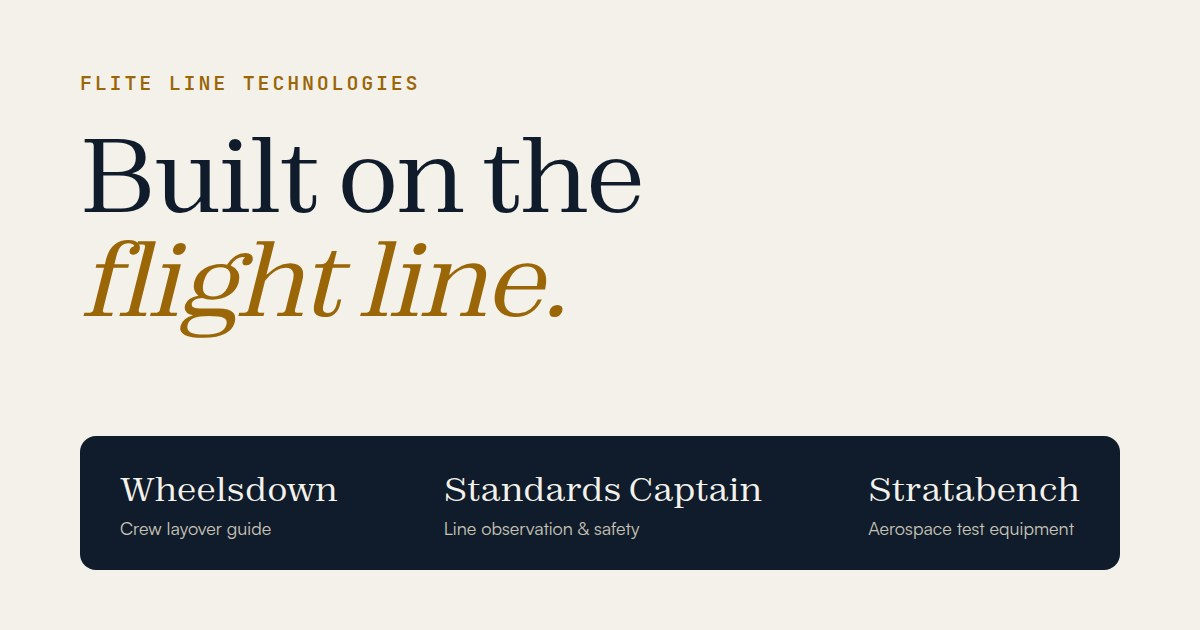
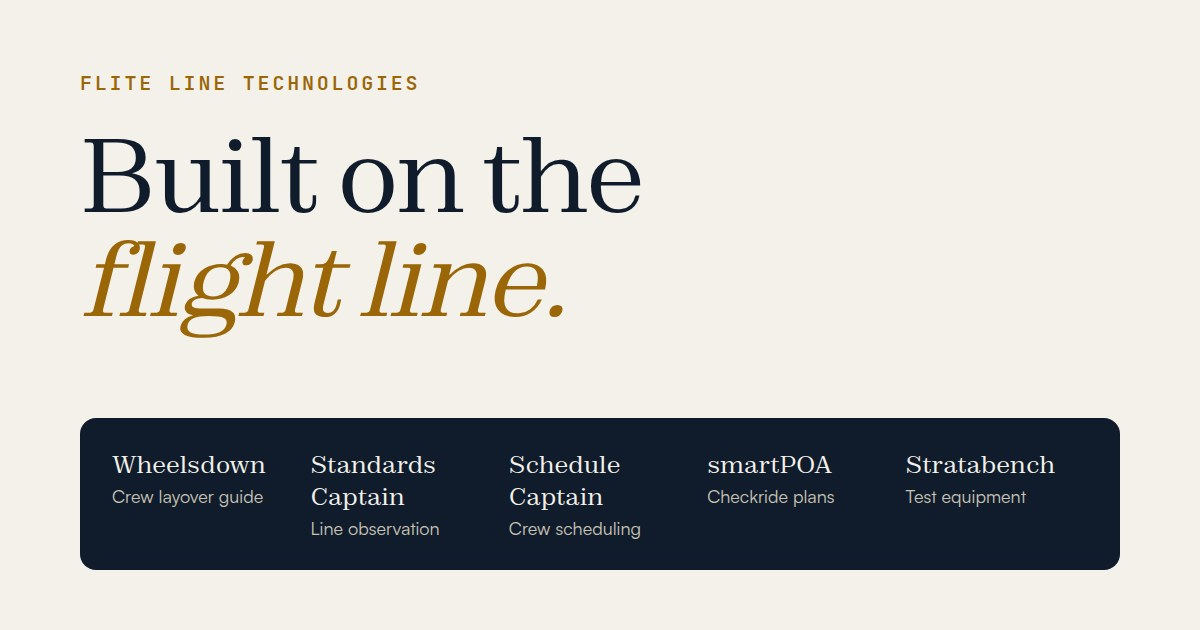
Add Schedule Captain and smartPOA, refresh product descriptions, remove GitHub link

Changed region(s): [[0.0925, 0.7238, 0.7092, 0.8746], [0.0617, 0.6635, 0.9558, 0.6937], [0.7092, 0.7238, 0.8942, 0.8746]]

diff --git a/index.html b/index.html
@@ -4,24 +4,24 @@
 <meta charset="utf-8">
 <meta name="viewport" content="width=device-width, initial-scale=1">
 <title>Flite Line Technologies | Aviation Software &amp; Test Equipment</title>
-<meta name="description" content="Flite Line Technologies builds aviation products: Wheelsdown for flight crews, Standards Captain for flight departments and Stratabench custom aerospace test equipment.">
+<meta name="description" content="Flite Line Technologies builds aviation products: Wheelsdown for flight crews, Standards Captain and Schedule Captain for flight departments, smartPOA for examiners and Stratabench aerospace test equipment.">
 <link rel="canonical" href="https://flitelinetech.com/">
 <meta name="robots" content="index, follow">
 <meta property="og:type" content="website">
 <meta property="og:site_name" content="Flite Line Technologies">
 <meta property="og:url" content="https://flitelinetech.com/">
 <meta property="og:title" content="Flite Line Technologies | Built on the flight line">
-<meta property="og:description" content="Flite Line Technologies builds aviation products: Wheelsdown for flight crews, Standards Captain for flight departments and Stratabench custom aerospace test equipment.">
+<meta property="og:description" content="Flite Line Technologies builds aviation products: Wheelsdown for flight crews, Standards Captain and Schedule Captain for flight departments, smartPOA for examiners and Stratabench aerospace test equipment.">
 <meta property="og:image" content="https://flitelinetech.com/img/og-image.jpg">
 <meta property="og:image:width" content="1200">
 <meta property="og:image:height" content="630">
-<meta property="og:image:alt" content="Flite Line Technologies: Wheelsdown, Standards Captain and Stratabench">
+<meta property="og:image:alt" content="Flite Line Technologies: Wheelsdown, Standards Captain, Schedule Captain, smartPOA and Stratabench">
 <meta name="twitter:card" content="summary_large_image">
 <meta name="twitter:title" content="Flite Line Technologies | Built on the flight line">
-<meta name="twitter:description" content="Flite Line Technologies builds aviation products: Wheelsdown for flight crews, Standards Captain for flight departments and Stratabench custom aerospace test equipment.">
+<meta name="twitter:description" content="Flite Line Technologies builds aviation products: Wheelsdown for flight crews, Standards Captain and Schedule Captain for flight departments, smartPOA for examiners and Stratabench aerospace test equipment.">
 <meta name="twitter:image" content="https://flitelinetech.com/img/og-image.jpg">
 <meta name="theme-color" content="#101c2c">
-<script type="application/ld+json">{"@context":"https://schema.org","@graph":[{"@type":"Organization","@id":"https://flitelinetech.com/#org","name":"Flite Line Technologies","url":"https://flitelinetech.com/","logo":"https://flitelinetech.com/img/og-image.jpg","parentOrganization":{"@type":"Organization","name":"Flite Line Aviation Services, LLC"},"brand":[{"@type":"Brand","name":"Wheelsdown","url":"https://getwheelsdown.com/"},{"@type":"Brand","name":"Standards Captain","url":"https://standardscaptain.com/"},{"@type":"Brand","name":"Stratabench","url":"https://stratabench.com/"}],"sameAs":["https://getwheelsdown.com/","https://standardscaptain.com/","https://stratabench.com/"]},{"@type":"WebSite","@id":"https://flitelinetech.com/#site","url":"https://flitelinetech.com/","name":"Flite Line Technologies","publisher":{"@id":"https://flitelinetech.com/#org"}},{"@type":"ItemList","name":"Flite Line Technologies products","itemListElement":[{"@type":"ListItem","position":1,"item":{"@type":"SoftwareApplication","name":"Wheelsdown","url":"https://getwheelsdown.com/","applicationCategory":"TravelApplication","operatingSystem":"Web","description":"Crew layover guide with pilot and flight attendant reviews of restaurants, hotels, activities and FBOs."}},{"@type":"ListItem","position":2,"item":{"@type":"SoftwareApplication","name":"Standards Captain","url":"https://standardscaptain.com/","applicationCategory":"BusinessApplication","operatingSystem":"Web","description":"Line observation, safety management and standards evidence platform for Part 91 and Part 135 flight departments."}},{"@type":"ListItem","position":3,"item":{"@type":"Service","name":"Stratabench","url":"https://stratabench.com/","serviceType":"Custom aerospace test equipment","description":"Custom flow benches, hydraulic and pressure test stands, functional test systems and test stand modernization for MRO, PMA and OEM teams."}}]}]}</script>
+<script type="application/ld+json">{"@context":"https://schema.org","@graph":[{"@type":"Organization","@id":"https://flitelinetech.com/#org","name":"Flite Line Technologies","url":"https://flitelinetech.com/","logo":"https://flitelinetech.com/img/og-image.jpg","parentOrganization":{"@type":"Organization","name":"Flite Line Aviation Services, LLC"},"brand":[{"@type":"Brand","name":"Wheelsdown","url":"https://getwheelsdown.com/"},{"@type":"Brand","name":"Standards Captain","url":"https://standardscaptain.com/"},{"@type":"Brand","name":"Schedule Captain","url":"https://schedulecaptain.com/"},{"@type":"Brand","name":"smartPOA","url":"https://flas-tech.github.io/smartpoa/"},{"@type":"Brand","name":"Stratabench","url":"https://stratabench.com/"}],"sameAs":["https://getwheelsdown.com/","https://standardscaptain.com/","https://schedulecaptain.com/","https://flas-tech.github.io/smartpoa/","https://stratabench.com/"]},{"@type":"WebSite","@id":"https://flitelinetech.com/#site","url":"https://flitelinetech.com/","name":"Flite Line Technologies","publisher":{"@id":"https://flitelinetech.com/#org"}},{"@type":"ItemList","name":"Flite Line Technologies products","itemListElement":[{"@type":"ListItem","position":1,"item":{"@type":"SoftwareApplication","name":"Wheelsdown","url":"https://getwheelsdown.com/","applicationCategory":"TravelApplication","operatingSystem":"Web","description":"Crew layover guide with pilot and flight attendant reviews of restaurants, hotels, activities and FBOs."}},{"@type":"ListItem","position":2,"item":{"@type":"SoftwareApplication","name":"Standards Captain","url":"https://standardscaptain.com/","applicationCategory":"BusinessApplication","operatingSystem":"Web","description":"Line observation, safety management and standards evidence platform for Part 91 and Part 135 flight departments."}},{"@type":"ListItem","position":3,"item":{"@type":"SoftwareApplication","name":"Schedule Captain","url":"https://schedulecaptain.com/","applicationCategory":"BusinessApplication","operatingSystem":"Web","description":"Crew availability, time-off bidding and trip scheduling for Part 91 and Part 135 flight departments."}},{"@type":"ListItem","position":4,"item":{"@type":"SoftwareApplication","name":"smartPOA","url":"https://flas-tech.github.io/smartpoa/","applicationCategory":"BusinessApplication","operatingSystem":"Web","description":"Checkride plans of action for pilot examiners, built from the current FAA ACS or PTS with a printed proof of compliance."}},{"@type":"ListItem","position":5,"item":{"@type":"Service","name":"Stratabench","url":"https://stratabench.com/","serviceType":"Custom aerospace test equipment","description":"Custom flow benches, hydraulic and pressure test stands, functional test systems and test stand modernization for MRO, PMA and OEM teams."}}]}]}</script>
 <link rel="preconnect" href="https://api.fontshare.com">
 <link href="https://api.fontshare.com/v2/css?f[]=zodiak@400,500,700&f[]=satoshi@400,500,700&display=swap" rel="stylesheet">
 <link href="https://fonts.googleapis.com/css2?family=JetBrains+Mono:wght@400;600&display=swap" rel="stylesheet">
@@ -47,10 +47,10 @@ header{position:sticky;top:0;z-index:20;background:rgba(244,241,234,.88);backdro
 .nav{display:flex;align-items:center;justify-content:space-between;height:64px;gap:1rem}
 .brand{display:flex;align-items:center;gap:.6rem;text-decoration:none;font-weight:700;letter-spacing:-.01em}
 .brand svg{width:28px;height:28px}
-.nav ul{display:flex;gap:1.75rem;list-style:none;font-size:.95rem}
+.nav ul{display:flex;gap:1.3rem;list-style:none;font-size:.95rem}
 .nav ul a{text-decoration:none;color:var(--muted)}
 .nav ul a:hover{color:var(--ink)}
-@media(max-width:720px){.nav ul{display:none}}
+@media(max-width:1080px){.nav ul{display:none}}
 
 /* hero */
 .hero{padding:clamp(4rem,9vw,7.5rem) 0 3.5rem}
@@ -60,7 +60,7 @@ header{position:sticky;top:0;z-index:20;background:rgba(244,241,234,.88);backdro
 .hero p.lede{font-size:clamp(1.1rem,1.6vw,1.3rem);color:var(--muted);max-width:56ch}
 
 /* route strip */
-.route{margin-top:3.5rem;background:var(--ink);color:var(--paper);border-radius:14px;padding:1.6rem clamp(1.2rem,3vw,2.2rem);display:grid;grid-template-columns:repeat(3,1fr);position:relative;overflow:hidden}
+.route{margin-top:3.5rem;background:var(--ink);color:var(--paper);border-radius:14px;padding:1.6rem clamp(1.2rem,3vw,2.2rem);display:grid;grid-template-columns:repeat(5,1fr);position:relative;overflow:hidden}
 .route::before{content:"";position:absolute;left:clamp(1.2rem,3vw,2.2rem);right:clamp(1.2rem,3vw,2.2rem);top:2.55rem;border-top:2px dashed rgba(232,169,46,.55)}
 .wp{position:relative;text-decoration:none;padding-right:1rem}
 .wp .dot{width:18px;height:18px;border-radius:50%;background:var(--amber);border:4px solid var(--ink);box-shadow:0 0 0 2px var(--amber);position:relative;z-index:1}
@@ -159,6 +159,8 @@ footer{background:var(--ink);color:rgba(244,241,234,.7);padding:3rem 0;font-size
     <ul>
       <li><a href="#wheelsdown">Wheelsdown</a></li>
       <li><a href="#standards-captain">Standards Captain</a></li>
+      <li><a href="#schedule-captain">Schedule Captain</a></li>
+      <li><a href="#smartpoa">smartPOA</a></li>
       <li><a href="#stratabench">Stratabench</a></li>
       <li><a href="#about">About</a></li>
     </ul>
@@ -170,12 +172,14 @@ footer{background:var(--ink);color:rgba(244,241,234,.7);padding:3rem 0;font-size
     <div class="wrap">
       <span class="mono">Aviation software &amp; test equipment</span>
       <h1>Built on the<br><em>flight line.</em></h1>
-      <p class="lede">Flite Line Technologies makes practical tools for aviation — from finding a good dinner on a layover, to running a non-punitive line observation program, to building the test stand that proves a component is ready to fly.</p>
+      <p class="lede">Flite Line Technologies makes practical tools for aviation: a layover guide for crews, line observation and crew scheduling for flight departments, checkride planning for examiners, and the test stands that prove a component is ready to fly.</p>
 
       <nav class="route" aria-label="Products">
         <a class="wp" href="#wheelsdown"><div class="dot"></div><span class="code mono">WP 01</span><strong>Wheelsdown</strong><span class="d">Crew layover guide</span></a>
         <a class="wp" href="#standards-captain"><div class="dot"></div><span class="code mono">WP 02</span><strong>Standards Captain</strong><span class="d">Line observation &amp; safety</span></a>
-        <a class="wp" href="#stratabench"><div class="dot"></div><span class="code mono">WP 03</span><strong>Stratabench</strong><span class="d">Aerospace test equipment</span></a>
+        <a class="wp" href="#schedule-captain"><div class="dot"></div><span class="code mono">WP 03</span><strong>Schedule Captain</strong><span class="d">Crew scheduling &amp; bidding</span></a>
+        <a class="wp" href="#smartpoa"><div class="dot"></div><span class="code mono">WP 04</span><strong>smartPOA</strong><span class="d">Checkride plans of action</span></a>
+        <a class="wp" href="#stratabench"><div class="dot"></div><span class="code mono">WP 05</span><strong>Stratabench</strong><span class="d">Aerospace test equipment</span></a>
       </nav>
     </div>
   </section>
@@ -186,13 +190,14 @@ footer{background:var(--ink);color:rgba(244,241,234,.7);padding:3rem 0;font-size
         <div class="eyebrow mono"><b>01</b> For flight crews · Live</div>
         <h2>Wheelsdown</h2>
         <p class="tag">The crew-sourced layover guide.</p>
-        <p>Search by airport and see where crews actually eat, stay and unwind — plus candid FBO intel — from quick turns to multi-day layovers. Recommendations come from crews, and the community votes on what holds up.</p>
+        <p>Search by airport, route or city to see where crews actually eat, stay and unwind, with candid FBO intel, on anything from a 45-minute turn to a three-day layover. Crews post the picks and the community votes on what holds up.</p>
         <ul class="feats">
-          <li><span><b>Eat, Do, Stay and FBO intel</b> organized around airport identifiers along your route.</span></li>
-          <li><span><b>Crew-vetted ratings</b> with recent up/down votes, price and pace, and a “Go around” warning for places to skip.</span></li>
-          <li><span><b>Trip sheets and a route map</b> to plan stops and share them with your crew.</span></li>
-          <li><span><b>Hotel program matching</b> that surfaces lodging from the loyalty programs you use.</span></li>
-          <li><span><b>An FBO portal</b> where FBOs can manage their listing and share QR trip cards with arriving crews.</span></li>
+          <li><span><b>Eat, Do, Stay and FBO intel</b> organized around the airports on your route, on a list or a map.</span></li>
+          <li><span><b>Crew-vetted ratings:</b> recent up and down votes, price and pace, and a “Go around” warning for places to skip.</span></li>
+          <li><span><b>Ramp-check reports</b> from crews, by airport and on a world map, so you know where inspections have been reported recently.</span></li>
+          <li><span><b>Trip sheets</b> to plan your stops, print them or share them with your crew, plus Crews’ Choice monthly restaurant voting.</span></li>
+          <li><span><b>My Crew and encrypted messages</b> to keep in touch with the people you fly with.</span></li>
+          <li><span><b>An FBO portal</b> where FBOs manage their listing and hand arriving crews QR trip cards.</span></li>
         </ul>
         <div class="ctas">
           <a class="btn primary" href="https://getwheelsdown.com" target="_blank" rel="noopener">Open Wheelsdown <svg viewBox="0 0 16 16" fill="none" stroke="currentColor" stroke-width="2"><path d="M5 11 11 5M6 5h5v5"/></svg></a>
@@ -204,20 +209,20 @@ footer{background:var(--ink);color:rgba(244,241,234,.7);padding:3rem 0;font-size
       </div>
     </div>
   </section>
-
   <section class="product" id="standards-captain">
     <div class="wrap prod flip">
       <div class="copy">
         <div class="eyebrow mono"><b>02</b> For flight departments · Live</div>
         <h2>Standards Captain</h2>
         <p class="tag">See how your SOPs really perform on the line.</p>
-        <p>A structured, non-punitive line observation program for business aviation flight departments, built on your own FOM, GOM and SOPs — with modular safety tools and organized evidence for the standards you choose to follow.</p>
+        <p>A structured, non-punitive line observation program for business aviation flight departments, built on your own FOM, GOM and SOPs. Modular safety, inspection and training tools feed the same evidence for the standards you choose to follow.</p>
         <ul class="feats">
-          <li><span><b>Line observations</b> with pre-brief, phase-of-flight ratings, threat and error coding, and debrief.</span></li>
-          <li><span><b>De-identified learning:</b> completion records and observation data are kept separate, with small-group suppression in analysis.</span></li>
-          <li><span><b>Optional safety modules</b> — FRAT, hazard reporting, inspections, tasks and training-event tracking.</span></li>
-          <li><span><b>Standards evidence reports</b> mapping your records to requirements such as IS-BAO and SMS — evidence for auditors, not a certification.</span></li>
-          <li><span><b>Role-based access</b> with MFA, audit logging and narrated training videos for every role.</span></li>
+          <li><span><b>Line observations</b> with a pre-brief, phase-of-flight ratings, threat and error coding, and a debrief. Peer observations are optional.</span></li>
+          <li><span><b>De-identified learning:</b> completion records and observation data stay separate, and small groups are suppressed in analysis.</span></li>
+          <li><span><b>Safety modules you switch on</b>: a two-step FRAT, hazard reporting, Compliance Captain equipment inspections and tasks.</span></li>
+          <li><span><b>Training tracking</b> with recurring assignments, crew feedback and a currency matrix.</span></li>
+          <li><span><b>Analysis dashboards</b> you can drill into, with ready-made PowerPoint briefings for leadership and safety committees.</span></li>
+          <li><span><b>Standards evidence reports</b> mapping your records to IS-BAO, Part 5 SMS, LOSA and your own requirements. It’s evidence for auditors, not a certification.</span></li>
         </ul>
         <div class="ctas">
           <a class="btn primary" href="https://standardscaptain.com" target="_blank" rel="noopener">Visit Standards Captain <svg viewBox="0 0 16 16" fill="none" stroke="currentColor" stroke-width="2"><path d="M5 11 11 5M6 5h5v5"/></svg></a>
@@ -230,20 +235,67 @@ footer{background:var(--ink);color:rgba(244,241,234,.7);padding:3rem 0;font-size
       </div>
     </div>
   </section>
-
+  <section class="product" id="schedule-captain">
+    <div class="wrap prod">
+      <div class="copy">
+        <div class="eyebrow mono"><b>03</b> For flight departments · Beta</div>
+        <h2>Schedule Captain</h2>
+        <p class="tag">Crew availability, bidding and trip scheduling.</p>
+        <p>Build your department’s crew availability, time-off bidding and trip schedule on your own rules, from one aircraft and two pilots up to a mixed Part 91 and Part 135 operation. Then invite your crew, schedulers and accounting team.</p>
+        <ul class="feats">
+          <li><span><b>Your bidding rules:</b> seniority, lottery, rotating priority or points-based awards, with future PTO requests.</span></li>
+          <li><span><b>Real qualifications:</b> fixed-wing and helicopter types, multi-type pilots, and separate maintenance, dispatch and line groups.</span></li>
+          <li><span><b>A controlled schedule</b> that moves from draft to bidding, locked and published, with partner-accepted swaps.</span></li>
+          <li><span><b>Line-check observers</b> scheduled from your Standards Captains and peer observers, counted against coverage.</span></li>
+          <li><span><b>Optional trips and accounting</b> for multi-leg trips, crew matching and billing records.</span></li>
+        </ul>
+        <div class="ctas">
+          <a class="btn primary" href="https://schedulecaptain.com" target="_blank" rel="noopener">Open Schedule Captain <svg viewBox="0 0 16 16" fill="none" stroke="currentColor" stroke-width="2"><path d="M5 11 11 5M6 5h5v5"/></svg></a>
+        </div>
+      </div>
+      <div class="shot">
+        <div class="frame"><div class="bar"><i></i><i></i><i></i><span>schedulecaptain.com</span></div><img src="img/schedule-captain.webp" alt="Schedule Captain staffing grid showing a 21-day crew roster for dispatch, maintenance and pilots" loading="lazy" width="1280" height="800"></div>
+      </div>
+    </div>
+  </section>
+  <section class="product" id="smartpoa">
+    <div class="wrap prod flip">
+      <div class="copy">
+        <div class="eyebrow mono"><b>04</b> For pilot examiners · By invitation</div>
+        <h2>smartPOA</h2>
+        <p class="tag">Checkride plans of action, built from the current standard.</p>
+        <p>smartPOA builds a plan of action for each applicant from the governing FAA ACS or PTS. It rotates elements so no two plans are the same, and it prints a proof of compliance that quotes the requirements each plan meets.</p>
+        <ul class="feats">
+          <li><span><b>Required tasks, automatically,</b> based on purpose, certificate, class and ratings held, including additional ratings and retests.</span></li>
+          <li><span><b>Scenarios and planned events</b> tied to ACS tasks, with a coverage meter. The applicant packet leaves the events out.</span></li>
+          <li><span><b>A proof of compliance</b> quoting 14 CFR, the ACS and FAA Order 8000.95D, fingerprinted to the plan and the FAA source.</span></li>
+          <li><span><b>Tablet or paper debriefs:</b> grade S, U or Not tested, even offline, or print a grade sheet to enter later.</span></li>
+          <li><span><b>Secure records and reports:</b> invitation-only accounts, authenticator sign-in, pass rates and most-missed ACS codes.</span></li>
+          <li><span><b>Private pilot through ATP,</b> airplane, helicopter and gyroplane standards.</span></li>
+        </ul>
+        <div class="ctas">
+          <a class="btn primary" href="https://flas-tech.github.io/smartpoa/" target="_blank" rel="noopener">Visit smartPOA <svg viewBox="0 0 16 16" fill="none" stroke="currentColor" stroke-width="2"><path d="M5 11 11 5M6 5h5v5"/></svg></a>
+        </div>
+      </div>
+      <div class="shot">
+        <div class="frame"><div class="bar"><i></i><i></i><i></i><span>smartPOA</span></div><img src="img/smartpoa.webp" alt="smartPOA homepage with a sample proof of compliance against the Private Pilot ACS" loading="lazy" width="1280" height="800"></div>
+      </div>
+    </div>
+  </section>
   <section class="product" id="stratabench">
     <div class="wrap prod">
       <div class="copy">
-        <div class="eyebrow mono"><b>03</b> For MROs &amp; component shops · Live</div>
+        <div class="eyebrow mono"><b>05</b> For MROs &amp; component shops · Live</div>
         <h2>Stratabench</h2>
         <p class="tag">Custom aerospace test equipment, engineered around your component.</p>
-        <p>Send the component and its CMM, ATP, drawing or test requirement. Stratabench designs, builds and documents the flow bench, pressure test stand or functional test equipment to run it — for fuel, hydraulic, oil, pneumatic and bleed-air systems.</p>
+        <p>Send the component and its CMM, ATP, drawing or test requirement. Stratabench designs, builds and documents the flow bench, pressure test stand or functional test equipment to run it, for fuel, hydraulic, oil, pneumatic and bleed-air systems.</p>
         <ul class="feats">
-          <li><span><b>Flow benches and pressure test stands</b> — flow versus pressure, proof, burst, cycle and leak-decay.</span></li>
+          <li><span><b>Flow benches and pressure test stands</b> for flow versus pressure, proof, burst, cycle and leak-decay testing.</span></li>
           <li><span><b>Functional test equipment</b> for switches, solenoids, actuators, RPM, temperature and position.</span></li>
-          <li><span><b>Test stand modernization</b> — new instrumentation, controls and data acquisition for aging benches with missing drawings.</span></li>
-          <li><span><b>Fixtures, manifolds and calibration hardware</b> so one bench covers a family of part numbers.</span></li>
-          <li><span><b>Complete documentation</b> — P&amp;ID, BOM, schematics and recorded factory acceptance test data.</span></li>
+          <li><span><b>Test stand modernization:</b> new instrumentation, controls and data acquisition for aging benches with missing drawings.</span></li>
+          <li><span><b>A clear path to a build:</b> a fixed-price test-system study, then a design package, then a milestone-based build and factory acceptance test.</span></li>
+          <li><span><b>Complete documentation:</b> P&amp;ID, BOM, schematics and recorded factory acceptance test data.</span></li>
+          <li><span><b>A customer portal</b> for project messages, large CAD and PDF files, and quotes in one place.</span></li>
         </ul>
         <div class="ctas">
           <a class="btn primary" href="https://stratabench.com" target="_blank" rel="noopener">Visit Stratabench <svg viewBox="0 0 16 16" fill="none" stroke="currentColor" stroke-width="2"><path d="M5 11 11 5M6 5h5v5"/></svg></a>
@@ -286,12 +338,13 @@ footer{background:var(--ink);color:rgba(244,241,234,.7);padding:3rem 0;font-size
         <li><a href="https://getwheelsdown.com" target="_blank" rel="noopener">Wheelsdown</a></li>
         <li><a href="https://fbo.getwheelsdown.com" target="_blank" rel="noopener">Wheelsdown for FBOs</a></li>
         <li><a href="https://standardscaptain.com" target="_blank" rel="noopener">Standards Captain</a></li>
+        <li><a href="https://schedulecaptain.com" target="_blank" rel="noopener">Schedule Captain</a></li>
+        <li><a href="https://flas-tech.github.io/smartpoa/" target="_blank" rel="noopener">smartPOA</a></li>
         <li><a href="https://stratabench.com" target="_blank" rel="noopener">Stratabench</a></li>
       </ul></div>
       <div><h4>More</h4><ul>
         <li><a href="https://standardscaptain.com/videos" target="_blank" rel="noopener">Training videos</a></li>
         <li><a href="https://stratabench.com/#contact" target="_blank" rel="noopener">Send a test requirement</a></li>
-        <li><a href="https://github.com/flas-tech" target="_blank" rel="noopener">GitHub</a></li>
       </ul></div>
     </div>
     <p class="fine">© 2026 Flite Line Technologies. All rights reserved.</p>
